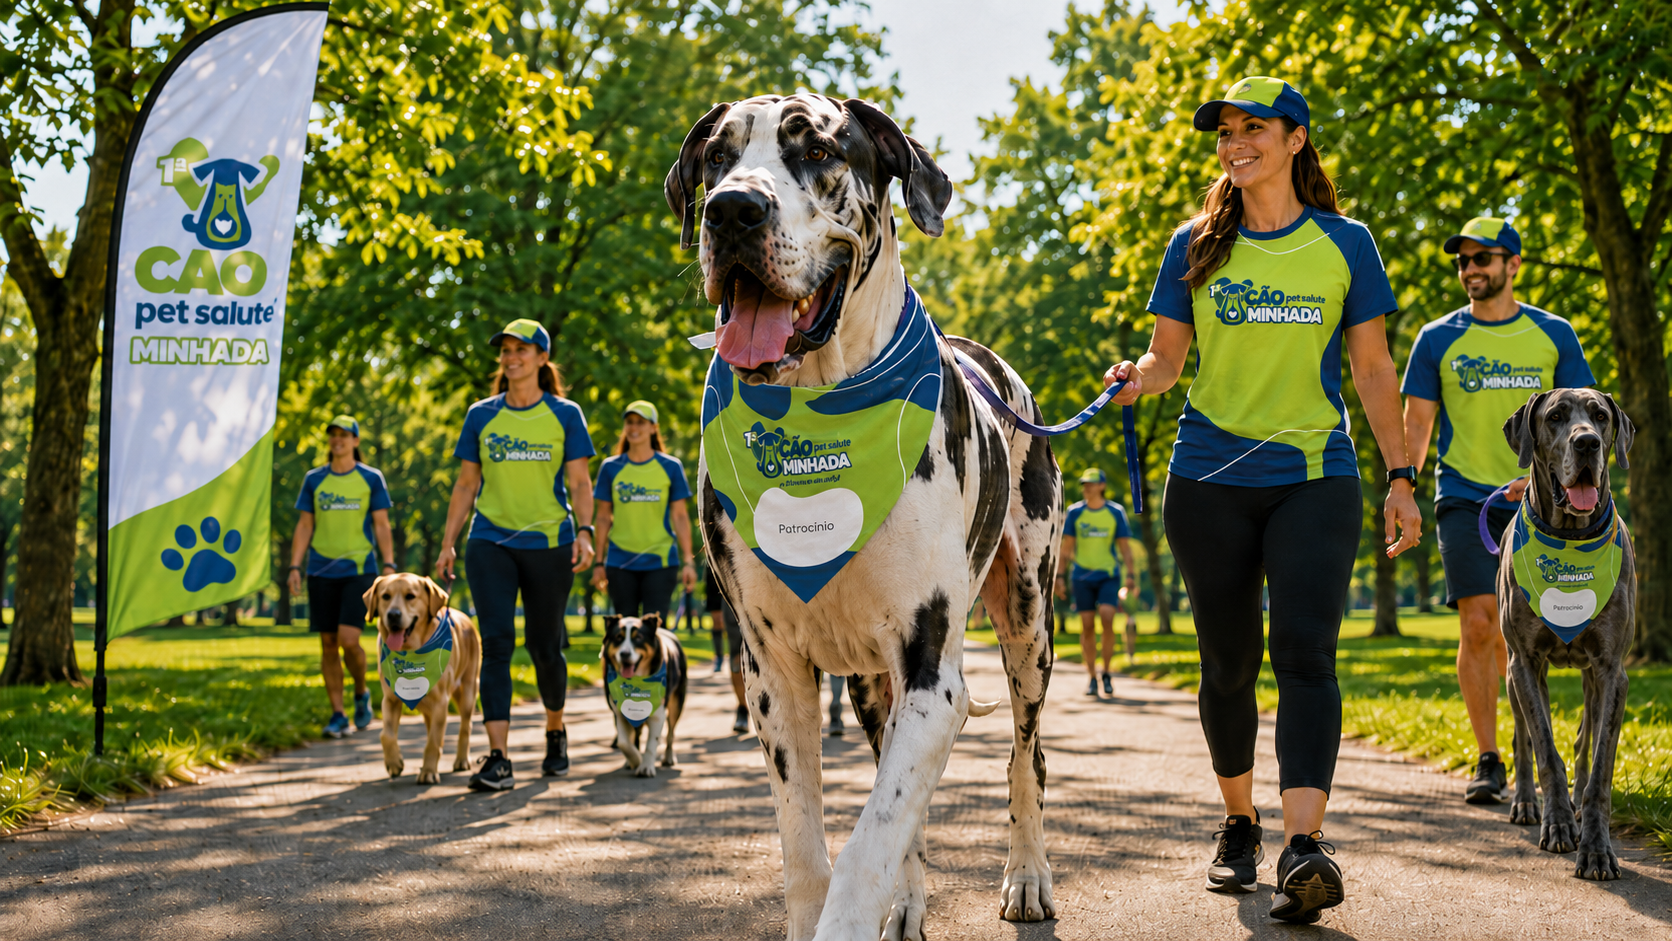
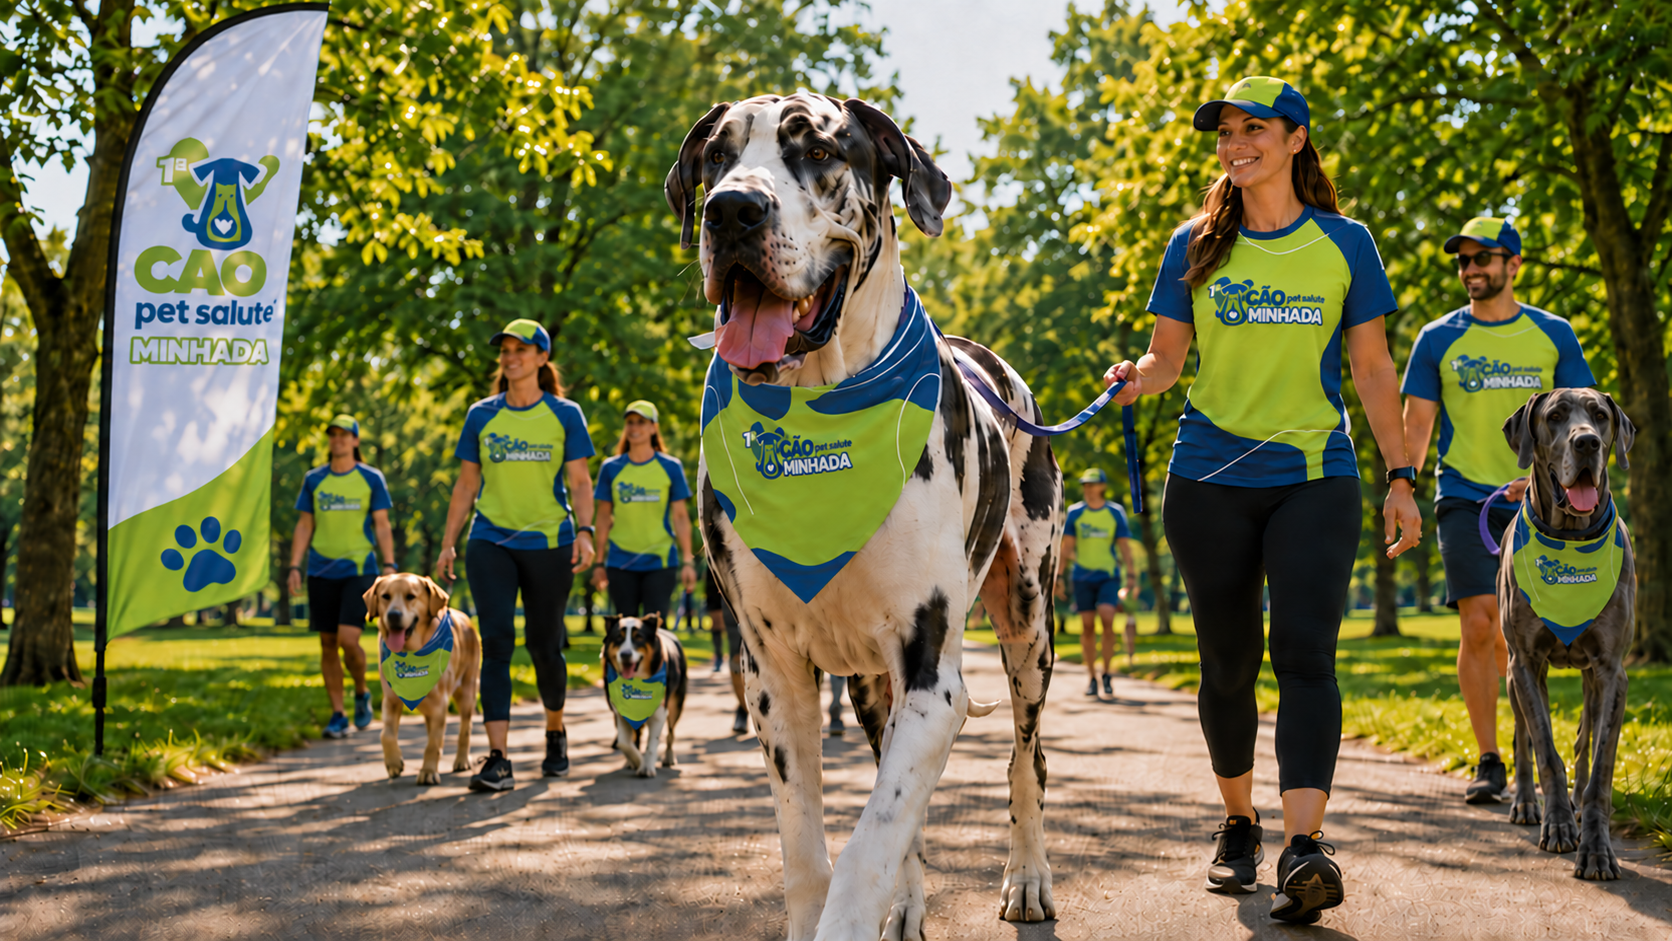
feat: atualiza imagem principal hero-dogs do site

diff --git a/FORCE_REDEPLOY.md b/FORCE_REDEPLOY.md
@@ -1,4 +1,3 @@
 # Atualização Cãominhada Pet Salute 2026
-Deploy do texto de segurança veterinária: Teremos veterinários no local.
-Timestamp: 2026-09-10 23:26
-# Redeploy - fix Supabase env vars Fri Sep 11 00:00:20 -03 2026
+Deploy da nova imagem principal hero-dogs: 2026-09-11 09:33
+
